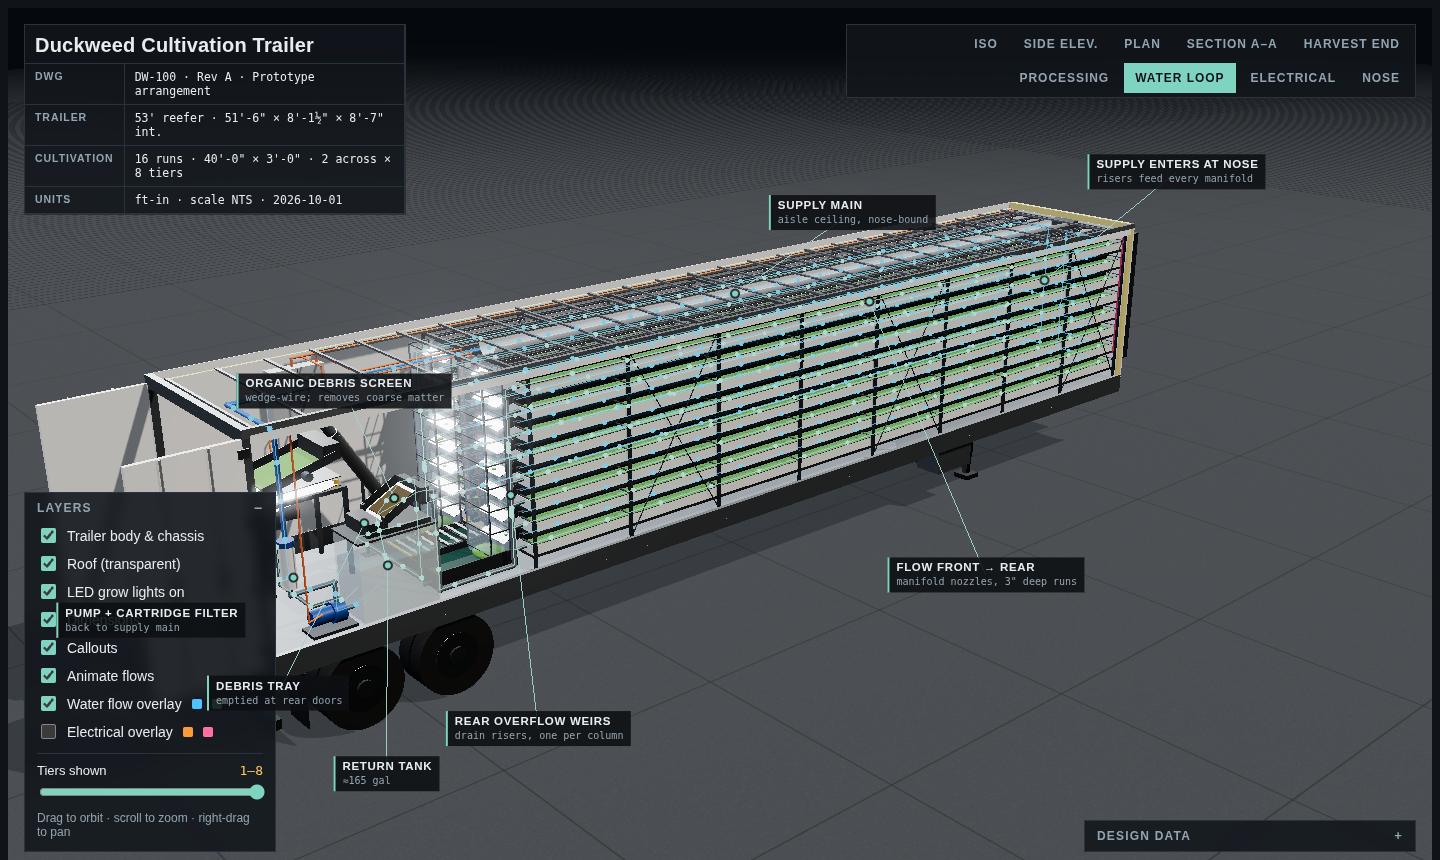
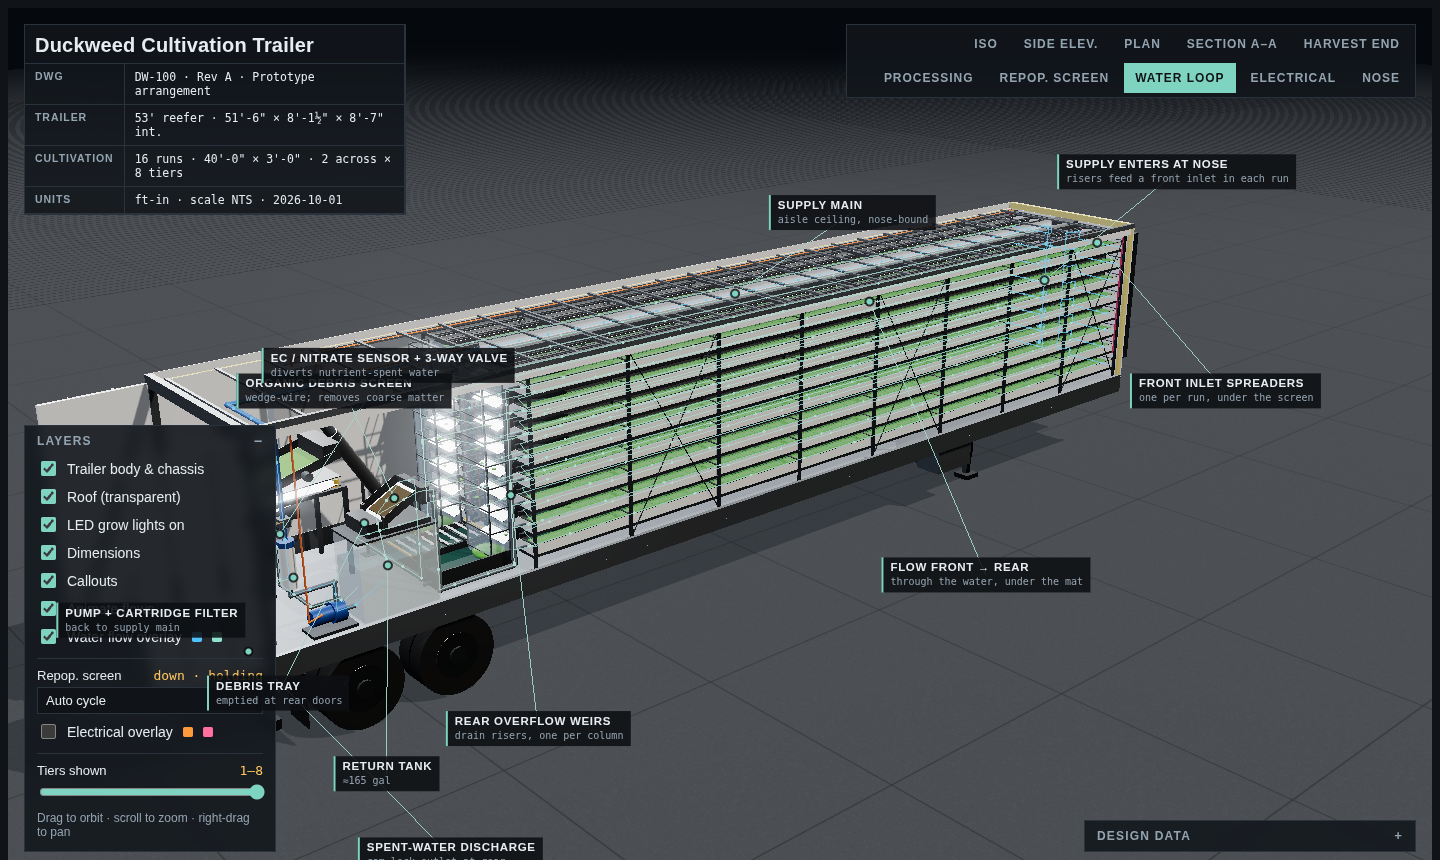
Route water through the runs, not the screen rail; add spent-water discharge
Claude-Session: https://claude.ai/code/session_01RjoCbTQGFuNZxQkcUqQEmb

diff --git a/index.html b/index.html
@@ -141,7 +141,7 @@ details.ov[open]>summary::after{content:"–"}
       <tr><td>Growing area</td><td>1,920 ft²</td></tr>
       <tr><td>Harvest / repop.</td><td>1,280 ft² / 640 ft²</td></tr>
       <tr><td>LED fixtures</td><td>384 × 56" bars (3 per bay)</td></tr>
-      <tr><td>Water loop</td><td>nose risers → runs → rear weirs → debris screen → tank → pump/filter</td></tr>
+      <tr><td>Water loop</td><td>nose risers → inlet spreaders → runs → rear weirs → debris screen → tank → pump/filter → back to supply, or out via EC/nitrate divert valve when spent</td></tr>
       <tr><td>Electrical</td><td>shore power → main disc. → panel → wall-side trays → LED drivers · motors</td></tr>
       <tr><td>Water in runs</td><td>480 ft³ ≈ 3,590 gal</td></tr>
       <tr><td>Water weight</td><td>≈ 29,950 lb</td></tr>
@@ -432,7 +432,7 @@ for (let c = 0; c < 2; c++) {
     cyl(g, 'ss', [481.2, tb + 6.05, z(35)], [481.2, tb + 6.05, z(37.8)], 0.35, 'cyl8');
     box(g, 'motor', 479.6, 482.8, tb + 4.4, tb + 7.7, z(37.8), z(39.6));
     cyl(g, 'motor', [481.2, tb + 6.05, z(39.6)], [481.2, tb + 6.05, z(43.4)], 1.45);
-    // longitudinal manifold dividing the width 1/3 : 2/3, with divider skirt, saddles and nozzles
+    // longitudinal screen rail at the 1/3 line (carries the repop. screen and actuators; no water in it)
     box(g, 'ss', 0.5, 480, tb + 5.5, tb + 7.5, z(11), z(13));
     // repopulation screen hardware at the 1/3 line: guide channels each 5'-0", one actuator per section, 24 VDC harness
     for (const x of FRAMES) { const gx = Math.min(Math.max(x, 0.8), 479.2); box(g, 'ss', gx - 0.6, gx + 0.6, tb + 0.25, tb + 7.5, z(13.05), z(14.0)); }
@@ -443,7 +443,6 @@ for (let c = 0; c < 2; c++) {
     }
     cyl(g, 'wire', [3, tb + 7.62, z(11.4)], [474, tb + 7.62, z(11.4)], 0.12, 'cyl8');
     for (const x of FRAMES) box(g, 'ss', fx(x) + 0.25, fx(x) + 1.25, tb + 5.15, tb + 5.5, z(0), z(13));
-    for (let x = 7.5; x < 478; x += 15) for (const d of [10.6, 13.4]) cyl(g, 'nozzle', [x, tb + 5.6, z(d)], [x, tb + 4.85, z(d)], 0.22, 'cyl8');
     // LED fixtures: 3 bars per 5'-0" bay, lens 9" above the run floor
     for (let k = 0; k < 8; k++) {
       const x0 = k * 60 + 2, x1 = k * 60 + 58;
@@ -650,6 +649,10 @@ for (const s of [-1, 1]) box(C, 'chassis', 612, 616, -33, -10, s * 20, s * 24);
 /* ---------- WATER LOOP: nose-fed supply → runs → rear overflow → debris screen → tank → pump/filter ---------- */
 const W = 'plumb', RZ = 7.6, RX = 11;          // supply risers sit in the aisle just aft of the evaporator
 const SUPPLY = [[572, 7.5, -38], [581, 7.5, -38], [581, 22, -38], [602, 22, -38], [602, 26, -38]];
+box(W, 'panel', 603.2, 606, 50, 53.5, -39.5, -36.5);                         // EC / nitrate sensor
+box(W, 'motor', 599.5, 604.5, 55, 59, -40.5, -35.5);                       // motorised 3-way divert valve
+pipeRun(W, 'pvc', [[602, 57, -38], [612, 57, -38], [612, 2, -38], [623, 2, -38]], 1.0);
+cyl(W, 'yellow', [623, 2, -38], [626, 2, -38], 1.6);                      // cam-lock discharge coupling through rear sill
 pipeRun(W, 'supply', [[602, 48.5, -38], [602, 99, -38], [602, 99, RZ], [RX, 99, RZ], [RX, TB(0) + 6.5, RZ]], 1.1);
 pipeRun(W, 'supply', [[RX, 85, RZ], [RX, 85, -RZ]], 1.0);
 cyl(W, 'supply', [RX, TB(7) + 6.5, -RZ], [RX, TB(0) + 6.5, -RZ], 1.1);
@@ -657,7 +660,9 @@ for (let c = 0; c < 2; c++) {
   const zs = c ? RZ : -RZ;
   for (let t = 0; t < TIERS; t++) {
     const y = TB(t) + 6.5;
-    cyl(W, 'supply', [RX, y, zs], [RX, y, Z(c, 12)], 0.75);              // lateral into the manifold
+    // lateral over the aisle-side wall → drop at the nose end → perforated inlet spreader across the run floor (passes under the screen)
+    pipeRun(W, 'supply', [[RX, y, zs], [RX, y, Z(c, 35)], [2, y, Z(c, 35)], [2, TB(t) + 0.75, Z(c, 35)]], 0.6);
+    cyl(W, 'supply', [2, TB(t) + 0.75, Z(c, 35)], [2, TB(t) + 0.75, Z(c, 1)], 0.4, 'cyl8');
     box(W, 'yellow', RX - 0.3, RX + 0.3, y + 0.8, y + 1.3, zs + (c ? 2 : -2), zs + (c ? 6 : -6));   // isolation valve
     // rear overflow weir in the repop zone → drain riser
     cyl(W, 'pvc', [479.5, TB(t) + 3, Z(c, 6)], [487.5, TB(t) + 3, Z(c, 6)], 0.8);
@@ -758,18 +763,21 @@ function flow(kind, pts, o = {}) {
   const len = cum[cum.length - 1];
   flows.push({ kind, P3, cum, len, tier: o.tier ?? -1, speed: o.speed ?? 14, n: Math.max(2, Math.round(len / (o.gap ?? 18))) });
 }
-const WC = { supply: '#4fc3ff', ret: '#8fe3d0', elec: '#ff9a3c', led: '#ff6fa0' };
+const WC = { supply: '#4fc3ff', ret: '#8fe3d0', drain: '#d9a441', elec: '#ff9a3c', led: '#ff6fa0' };
 // water
 flow('supply', [[556, 14, -36], ...SUPPLY, [602, 48.5, -38], [602, 99, -38], [602, 99, RZ], [RX, 99, RZ], [RX, TB(0) + 6.5, RZ]], { speed: 24 });
 flow('supply', [[RX, 85, RZ], [RX, 85, -RZ], [RX, TB(0) + 6.5, -RZ]], { speed: 24 });
 flow('supply', [[RX, 85, -RZ], [RX, TB(7) + 6.5, -RZ]], { speed: 24 });
 for (let c = 0; c < 2; c++) for (let t = 0; t < TIERS; t++) {
   const tb = TB(t), zs = c ? RZ : -RZ;
-  flow('supply', [[RX, tb + 6.5, zs], [RX, tb + 6.5, Z(c, 12)], [478, tb + 6.5, Z(c, 12)]], { tier: t, speed: 30, gap: 30 });
-  flow('ret', [[4, tb + 3.3, Z(c, 6)], [479, tb + 3.3, Z(c, 6)], [487.5, tb + 3, Z(c, 6)], [487.5, 3, Z(c, 6)]], { tier: t, speed: 9, gap: 34 });
+  flow('supply', [[RX, tb + 6.5, zs], [RX, tb + 6.5, Z(c, 35)], [2, tb + 6.5, Z(c, 35)], [2, tb + 0.75, Z(c, 35)], [2, tb + 0.75, Z(c, 1)]], { tier: t, speed: 24, gap: 8 });
+  // water moves through the run itself (below the floating mat, under the screen), to the rear weir
+  flow('ret', [[4, tb + 2.2, Z(c, 6)], [479, tb + 2.2, Z(c, 6)], [487.5, tb + 3, Z(c, 6)], [487.5, 3, Z(c, 6)]], { tier: t, speed: 9, gap: 40 });
+  flow('ret', [[4, tb + 2.2, Z(c, 26)], [445, tb + 2.2, Z(c, 26)], [468, tb + 1.0, Z(c, 26)], [474, tb + 1.0, Z(c, 6)], [479, tb + 2.6, Z(c, 6)]], { tier: t, speed: 9, gap: 40 });
 }
 flow('ret', [[487.5, 3, Z(0, 6)], [529.5, 3, Z(0, 6)], [529.5, 54, Z(0, 6)], [537, 55, Z(0, 6)], [556, 46, -34], [552, 20, -34]], { speed: 16 });
 flow('ret', [[487.5, 3, Z(1, 6)], [529.5, 3, Z(1, 6)], [529.5, 3, -24], [529.5, 54, -24], [537, 55, -24], [556, 46, -34], [552, 20, -34]], { speed: 16 });
+flow('drain', [[602, 57, -38], [612, 57, -38], [612, 2, -38], [626, 2, -38]], { speed: 14, gap: 8 });
 flow('ret', [[584, 42, 14], [584, 3, 14], [584, 3, -18], [570, 3, -18], [570, 3, -22], [566, 12, -30]], { speed: 12 });
 // electrical
 flow('elec', [[-6, 40, 45], [2, 40, 48.5], [2, CY, 48.5], [2, CY, 45], [553, CY, 45], [553, 98, 45]], { speed: 60, gap: 30 });
@@ -801,7 +809,7 @@ const _fp = V(0, 0, 0), _fs = V(1, 1, 1);
 function updateFlows(time) {
   for (const k in pMeshes) {
     const { im, list } = pMeshes[k]; let i = 0;
-    const r = k === 'supply' || k === 'ret' ? 1.3 : 0.9;
+    const r = k === 'elec' || k === 'led' ? 0.7 : 0.75;
     for (const f of list) {
       const on = f.tier < 0 || f.tier < tierN;
       for (let j = 0; j < f.n; j++, i++) {
@@ -930,14 +938,17 @@ callout([200, 50, -51], [-10, -100, -50], 'Near sidewall removed', 'shown cut fo
 callout([110, 104, -51], [0, 34, -40], 'Near sidewall removed', 'shown cut for clarity', { v: 'nose' });
 // callouts — water loop
 const WV = { v: 'water' };
-callout([RX, 60, RZ], [-40, 80, -70], 'Supply enters at nose', 'risers feed every manifold', WV);
+callout([RX, 60, RZ], [-40, 80, -70], 'Supply enters at nose', 'risers feed a front inlet in each run', WV);
 callout([300, 99, RZ], [0, 60, -90], 'Supply main', 'aisle ceiling, nose-bound', WV);
-callout([240, TB(7) + 3.3, Z(0, 6)], [-20, -150, -80], 'Flow front → rear', 'manifold nozzles, 3" deep runs', WV);
+callout([240, TB(7) + 3.3, Z(0, 6)], [-20, -150, -80], 'Flow front → rear', 'through the water, under the mat', WV);
 callout([487.5, 40, Z(0, 6)], [30, -90, -60], 'Rear overflow weirs', 'drain risers, one per column', WV);
 callout([546, 52, -34], [40, 70, -40], 'Organic debris screen', 'wedge-wire; removes coarse matter', WV);
 callout([562, 44, -34], [70, -40, -50], 'Debris tray', 'emptied at rear doors', WV);
 callout([552, 20, -34], [30, -80, -40], 'Return tank', '≈165 gal', WV);
 callout([600, 30, -38], [70, 10, -20], 'Pump + cartridge filter', 'back to supply main', WV);
+callout([604, 52, -38], [-10, 95, -90], 'EC / nitrate sensor + 3-way valve', 'diverts nutrient-spent water', WV);
+callout([624, 2, -38], [-30, -60, -110], 'Spent-water discharge', 'cam-lock outlet at rear', WV);
+callout([2, TB(7) + 0.75, Z(0, 20)], [-30, -90, -90], 'Front inlet spreaders', 'one per run, under the screen', WV);
 // callouts — electrical
 const EV = { v: 'elec' };
 callout([-9, 46, 45], [-40, 60, -80], 'Shore power + main disconnect', 'nose, curb side', EV);
@@ -967,10 +978,10 @@ callout(tb => [240.6, tb + 6, Z(0, 13.5)], [8, 12, 4], 'Guide channel', 'at each
 callout(tb => [270, tb + 8.6, Z(0, 14)], [-6, 12, -6], 'Linear actuator', '24 VDC · 2.4" stroke', SV);
 callout(tb => [250, tb + 3.1, Z(0, 5)], [4, -9, -10], 'Repopulation zone ⅓', 'mat held while gate is down', SV);
 callout(tb => [280, tb + 3.1, Z(0, 26)], [-6, -10, 8], 'Harvest zone ⅔', 'reseeded when gate lifts', SV);
-callout(tb => [300, tb + 7.5, Z(0, 12)], [10, 12, 14], 'Manifold', 'carries screen + actuators', SV);
+callout(tb => [300, tb + 7.5, Z(0, 12)], [10, 12, 14], 'Screen rail', 'carries screen + actuators', SV);
 const HV = { v: 'harvest', rel: 1 };
 callout(tb => [424, tb + 3.1, Z(0, 5)], [-6, 24, -4], 'Repopulation zone', '⅓ width retained', HV);
-callout(tb => [446, tb + 7.5, Z(0, 12)], [-14, 22, 12], 'Manifold + divider skirt', 'splits width ⅓ : ⅔', HV);
+callout(tb => [446, tb + 7.5, Z(0, 12)], [-14, 22, 12], 'Screen rail + screen', 'splits width ⅓ : ⅔', HV);
 callout(tb => [436, tb + 3.1, Z(0, 28)], [-16, 12, 34], 'Harvest section ⅔', 'conveyor belt under the mat', HV);
 callout(tb => [468, tb + 4.6, Z(0, 26)], [8, 22, 30], 'Cleated incline', 'lifts mat clear of water', HV);
 callout(tb => [486.5, tb + 5.2, Z(0, 24)], [24, 16, 10], 'Discharge flap', 'lowered · drops to chute', HV);

diff --git a/README.md b/README.md
@@ -9,7 +9,7 @@ Interactive 3D engineering model (Three.js) of a 16-run duckweed cultivation and
 
 Open `index.html` in a browser. Views: Iso, Side, Plan, Section A–A, Harvest end, Processing, Water loop, Electrical, Nose.
 
-Water loop: supply main → risers at the nose → run manifolds → flow front to rear → rear overflow weirs → organic debris screen → return tank → pump + cartridge filter → supply main.
+Water loop: supply main → risers at the nose → an inlet spreader on the floor of each run (passing under the screen) → flow front to rear through the water → rear overflow weirs → organic debris screen → return tank → pump + cartridge filter → supply main. An EC/nitrate sensor and motorised 3-way valve after the filter divert nutrient-spent water to a cam-lock discharge outlet at the rear sill.
 
 Electrical: shore power + main disconnect (nose) → feeder in wall-side cable trays → control panel (VFDs, LED drivers, breakers) → LED driver drops at the nose end of each run, conveyor gearmotor drops at the rear, pump, auger, screen and press circuits.
 
